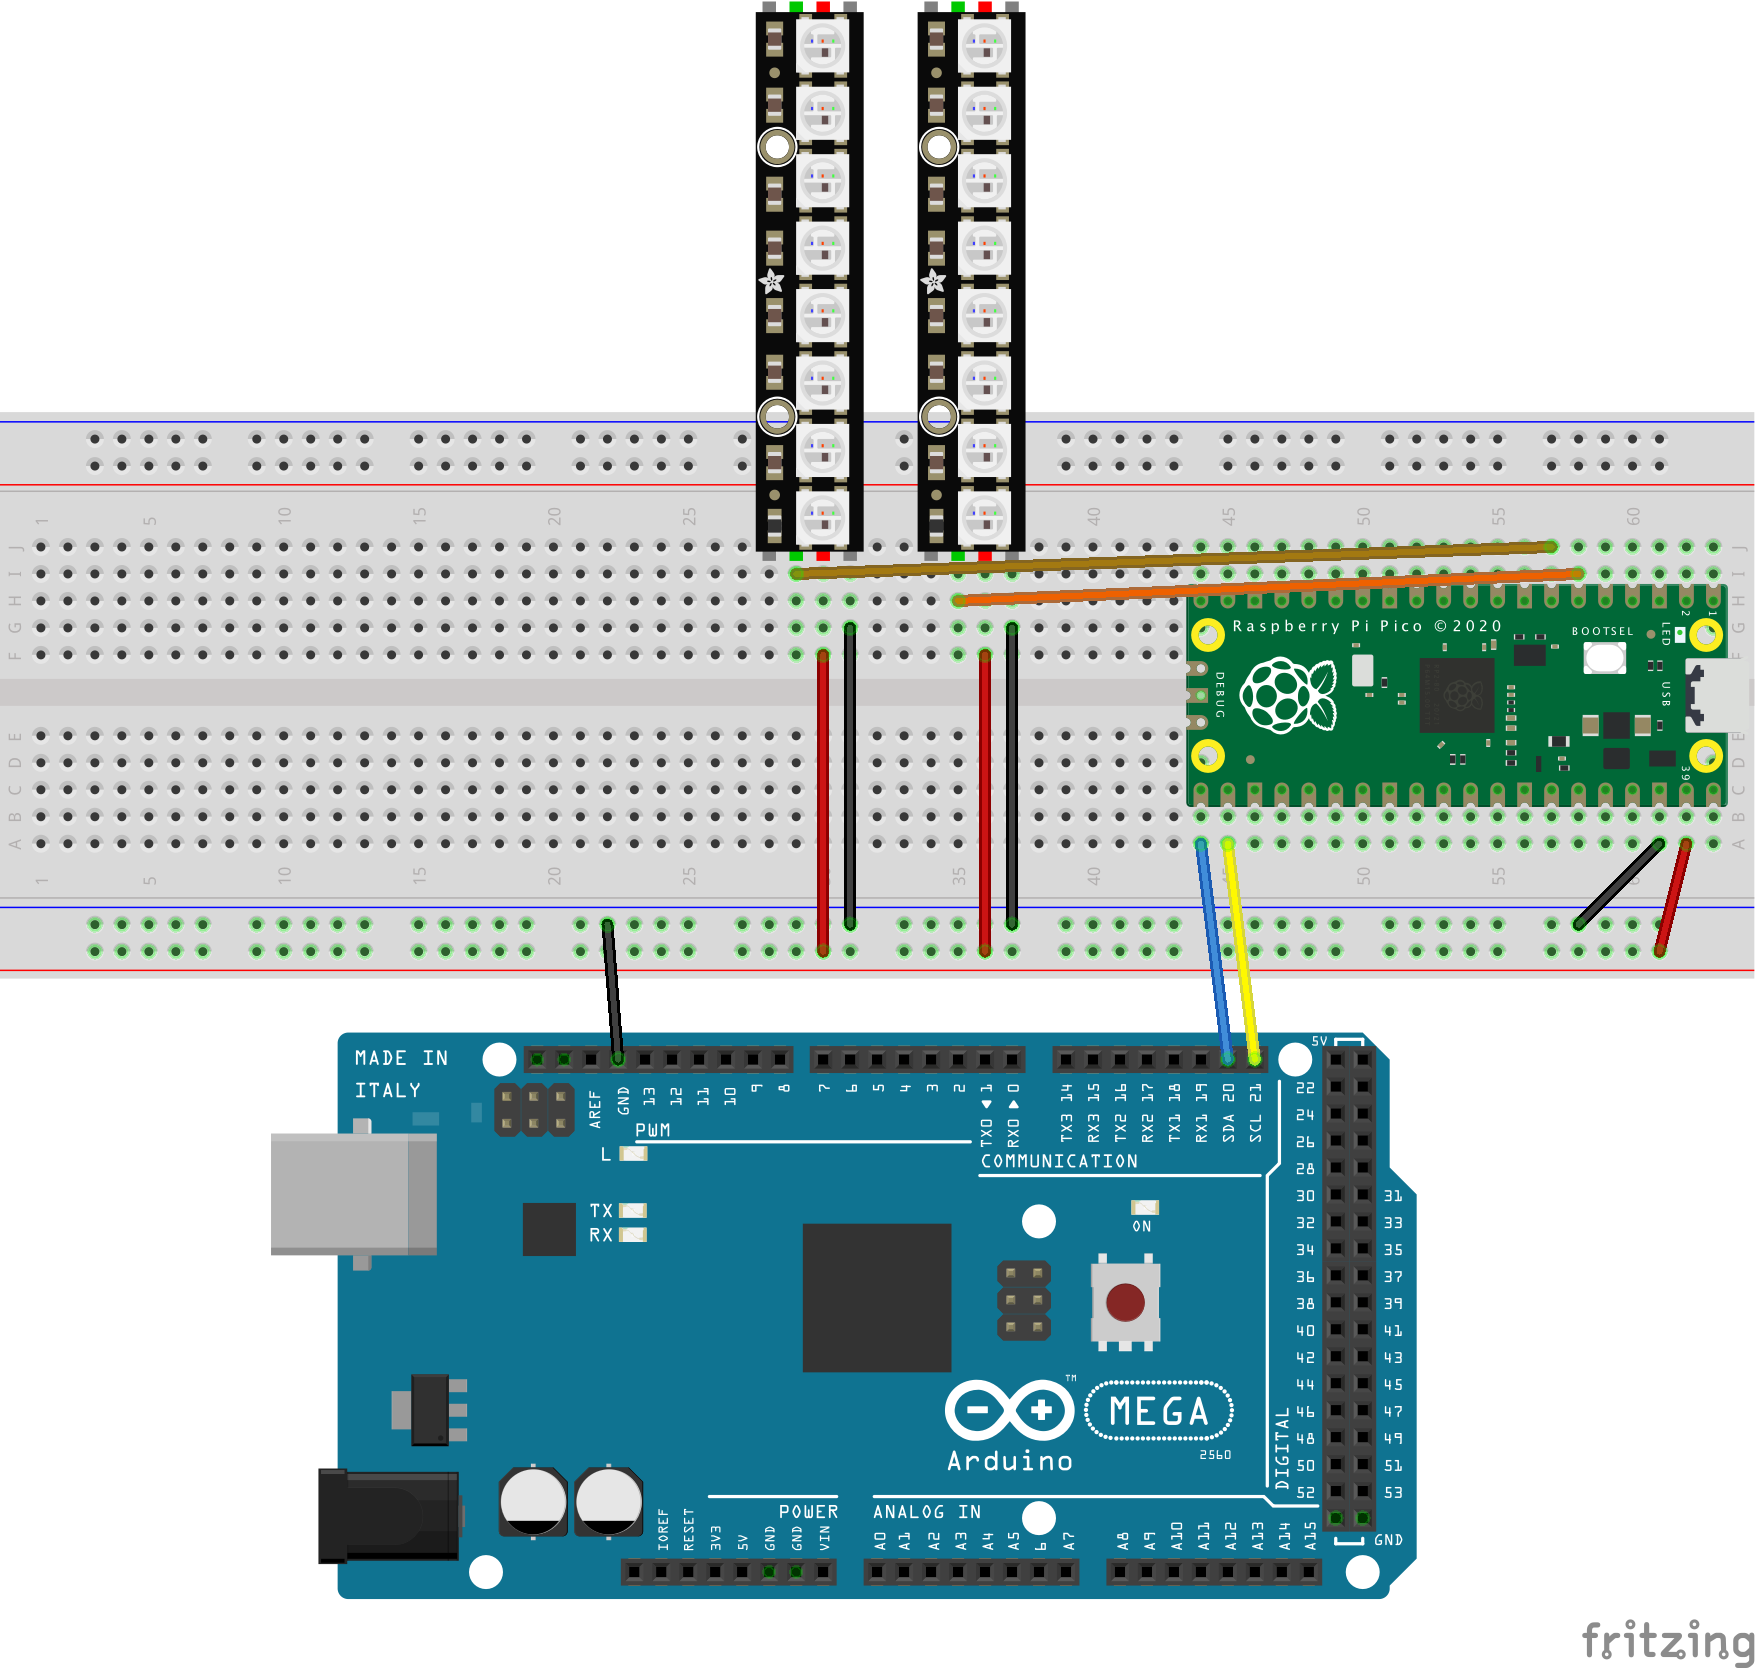
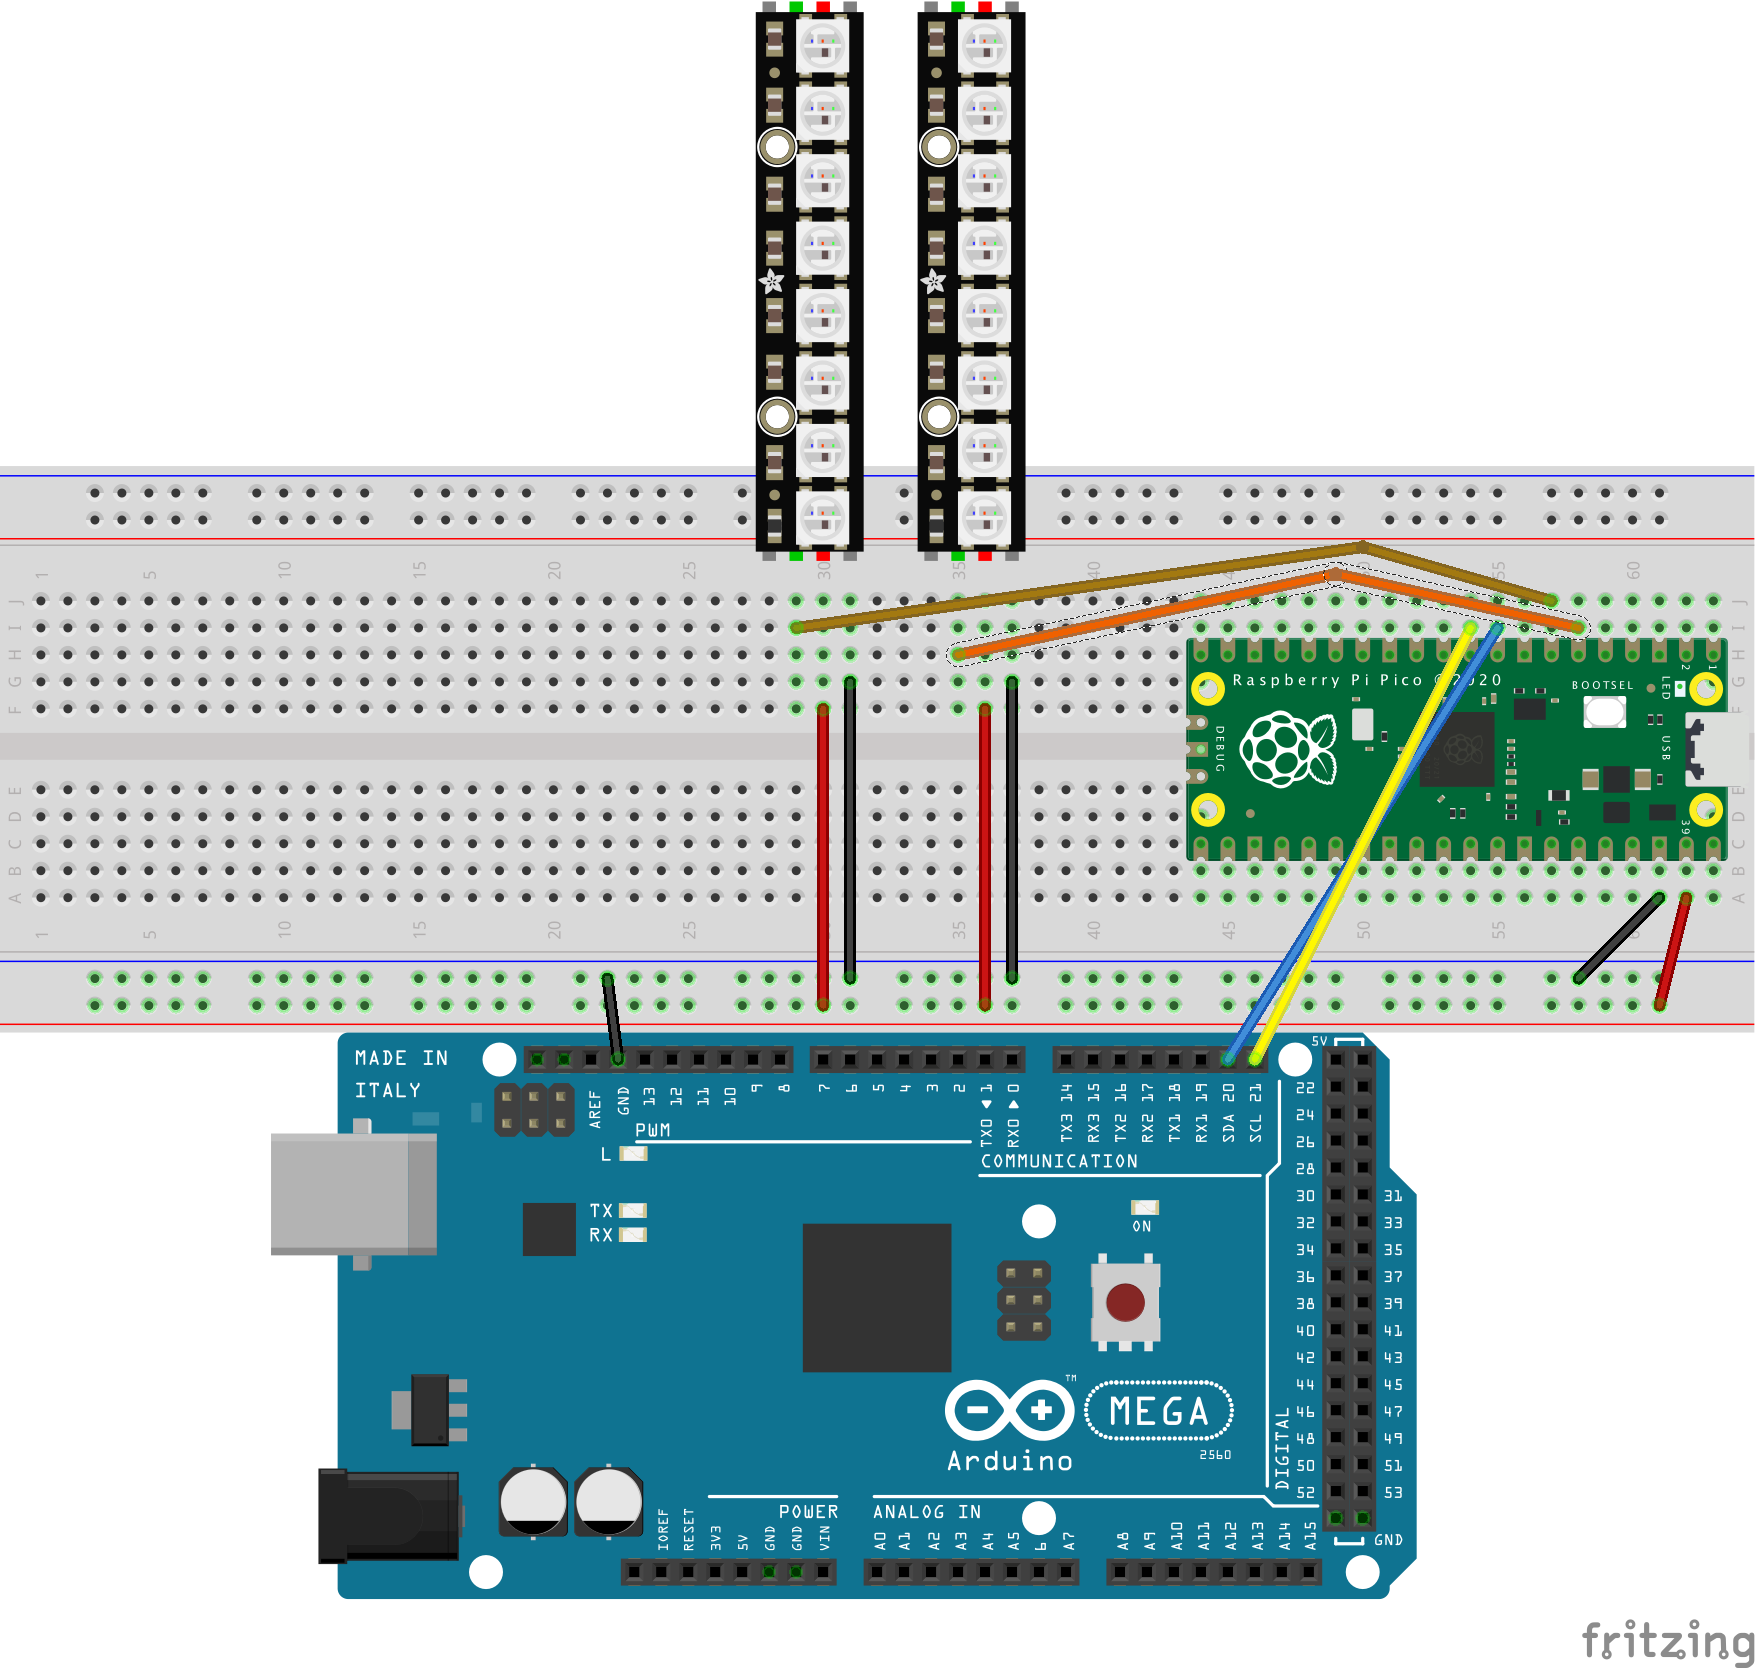
Update I2C pins to match default Arduino pins

Changed region(s): [[0.0, 0.2494, 1.0, 0.6547], [0.0, 0.2494, 0.4308, 0.3429]]

diff --git a/examples/i2c_animations.py b/examples/i2c_animations.py
@@ -18,15 +18,15 @@ animation = [
 strip = [
     PixelStrip(4, 12, brightness=BRIGHTNESS),
     PixelStrip(5, 8, brightness=BRIGHTNESS),
-    PixelStrip(6, 12, brightness=BRIGHTNESS),
-    PixelStrip(8, 12, brightness=BRIGHTNESS)
+    PixelStrip(8, 12, brightness=BRIGHTNESS),
+    PixelStrip(9, 12, brightness=BRIGHTNESS)
 ]
 
 # The built-in LED will turn on for half a second after every message
 led = Pin(25, Pin.OUT)
 led.value(False)
 
-i2c_slave = i2cSlave(0,sda=16,scl=17,slave_address=I2C_ADDRESS)
+i2c_slave = i2cSlave(1,sda=6,scl=7,slave_address=I2C_ADDRESS)
 
 def receive_message():
     """

diff --git a/i2c/README.md b/i2c/README.md
@@ -28,7 +28,7 @@ You can also use Visual Studio Code with the [Pico-Go](http://pico-go.net/) exte
 
 ## Arduino Hardware Setup
 
-Connect the Arduino's SDA and SCL pins to corresponding pins on the Pico.  For this example, we are configuring the Pico's GP16 and GP17 pins for I2C.  Also connect ground wires between the two boards.  Ignore the power pin.
+Connect the Arduino's SDA and SCL pins to corresponding pins on the Pico.  For this example, we are configuring the Pico's GP6 and GP7 pins for I2C.  Also connect ground wires between the two boards.  Ignore the power pin.
 
 When possible, stick to the [Qwiic convention](https://learn.adafruit.com/introducing-adafruit-stemma-qt/technical-specs) of using yellow wire for clock and blue for data.
 
